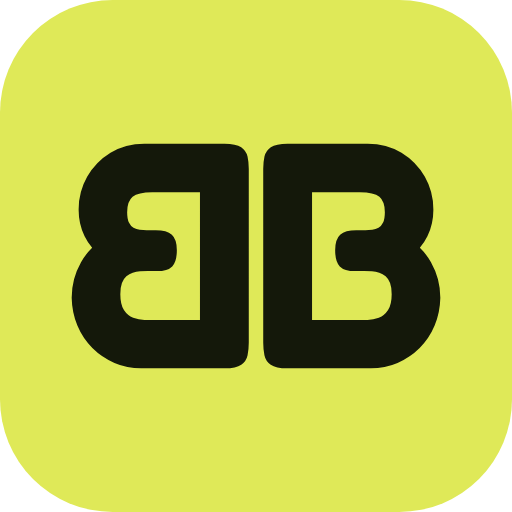
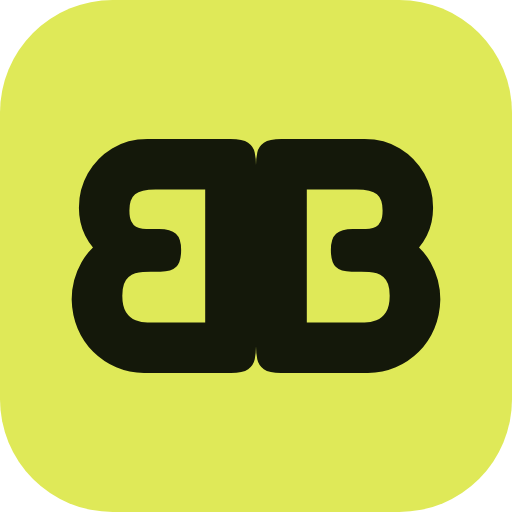
Join the two B's: a butterfly before it is a monogram
Agung's read, and it is better than mine. Where the mirror line falls is the
whole design, and the stem measurement gives three real options:

  x = 114.5   the stems fully merge     one solid slab with four small holes
  x = 38.5    the stems touch           a body, with the bowls as wings
  x = 16      a 45-unit gap             two separate letters

I had picked the gap because merging looked like a blob, and skipped straight
past the one in between. Touching is the answer: the two stems together make a
spine down the middle and the four bowls flare off it. It reads as a butterfly
first and a BB second, which is a better thing for a mark to do.

Rendered at 16, 24, 32, 48, 96 and 180px before committing — the counters stay
open all the way down, so it survives a browser tab.

Every file regenerated from the one glyph, as before.

diff --git a/src/site/Mark.tsx b/src/site/Mark.tsx
@@ -23,9 +23,9 @@ export function Mark({ size = 20 }: { size?: number }) {
       aria-hidden="true"
       style={{ display: 'block', flex: 'none' }}
     >
-      <g transform="translate(48.829 74.951) scale(0.07317 -0.07317)">
+      <g transform="translate(47.068 75.969) scale(0.07616 -0.07616)">
         <path d={D} />
-        <path d={D} transform="translate(32 0) scale(-1 1)" />
+        <path d={D} transform="translate(77.0 0) scale(-1 1)" />
       </g>
     </svg>
   )

diff --git a/scripts/build-logo.py b/scripts/build-logo.py
@@ -40,15 +40,21 @@ PAPER = (241, 243, 239)     # #f1f3ef
 # always going to sit slightly wrong beside it — this is the same letter.
 #
 # The stem of Fredoka's B at weight 600 is exactly 152 units wide (38.5 to
-# 190.5, measured by scanline, constant up the letter). Mirroring about the
-# stem's centre makes the two B's share it — and that reads as one solid slab,
-# not as two letters. Mirroring at x=16 leaves a 45-unit gap instead, which is
-# tight enough to be one mark and open enough to still be two B's.
+# 190.5, measured by scanline, constant up the letter), so where the mirror line
+# falls decides everything:
+#
+#   x = 114.5   the stems fully merge     one solid slab, four small holes
+#   x = 38.5    the stems touch           a body, with the bowls as wings
+#   x = 16      a 45-unit gap             two separate letters
+#
+# 38.5 is the one. The two stems together make a spine down the middle and the
+# four bowls flare off it, which is a butterfly before it is a monogram — and it
+# still holds at 16px, where the counters stay open.
 FREDOKA_URL = (
     "https://raw.githubusercontent.com/google/fonts/main/ofl/fredoka/"
     "Fredoka%5Bwdth%2Cwght%5D.ttf"
 )
-MIRROR_AT = 16          # leaves a 45-unit gap between the two stems
+MIRROR_AT = 38.5        # the two stems touch, making one body
 GLYPH_BOX = (2 * MIRROR_AT - 590, 590, -8.75, 690.75)   # x0, x1, y0, y1
 
 PINE = (28, 122, 79)        # kept for reference; the brand moved to lime
